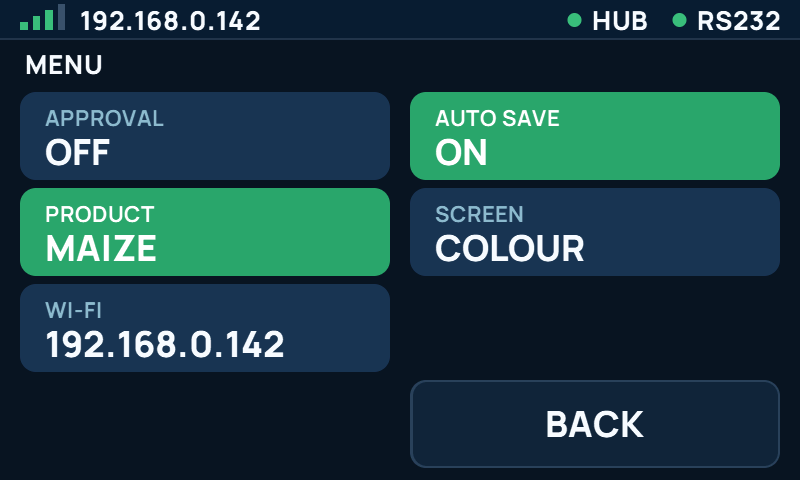
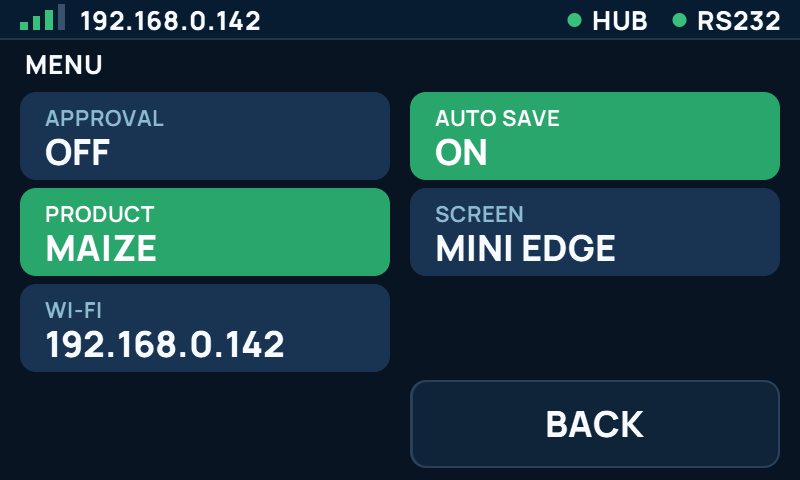
feat(wsoft): Waveshare reads RS232 on the Sensor plug; MENU > SCREEN says MINI EDGE
Rhyno (23 Nov 2026): one thing is plugged in at a time, so the pins follow
the source. The Waveshare's only free GPIO is the Sensor plug (GPIO6, per
Waveshare's wiki); RS232 is receive only there, through a MAX3232 like the
yellow board, with the same default weight pattern. The load cell (2 wires)
and relays have no free pin on this board and stay as they were.

The Full Colour look (the mini Edge, PR #70) is named MINI EDGE on the menu
tile and its toast; presets regenerated with WSOFT_UI_KEEP_FONTS=1 (only
screen 37 changed).

Claude-Session: https://claude.ai/code/session_017CMFYsz2FEFbhujMkyKidP

Changed region(s): [[0.5312, 0.4688, 0.7812, 0.5625]]

diff --git a/interface/src/project/wsoft/gen/wsoftScreen.js b/interface/src/project/wsoft/gen/wsoftScreen.js
@@ -994,7 +994,7 @@ const WsoftUi = (() => {
     }
     if (S.source === 'LOADCELL') tile('zero', 'ZERO', 'SET TO 0', LOOK_BTN);
     tile('product', 'PRODUCT', !S.products.length ? 'NONE ON THE HUB' : pr ? pr.name.toUpperCase() : 'NONE', pr ? LOOK_ON : LOOK_BTN);
-    tile('theme', 'SCREEN', S.style === STYLE_COLOUR ? 'COLOUR' : S.style === STYLE_DIAL ? 'DIAL' : S.dark ? 'DARK' : 'LIGHT', LOOK_BTN);
+    tile('theme', 'SCREEN', S.style === STYLE_COLOUR ? 'MINI EDGE' : S.style === STYLE_DIAL ? 'DIAL' : S.dark ? 'DARK' : 'LIGHT', LOOK_BTN);
     tile('wifi', 'WI-FI', up ? S.wifi.ip : 'OFF', LOOK_BTN);
     m.tile_count = m.tiles.length;
     m.pin_count = S.pin.length;

diff --git a/tools/wsoft-ui/ref.js b/tools/wsoft-ui/ref.js
@@ -992,7 +992,7 @@ const WsoftUi = (() => {
     }
     if (S.source === 'LOADCELL') tile('zero', 'ZERO', 'SET TO 0', LOOK_BTN);
     tile('product', 'PRODUCT', !S.products.length ? 'NONE ON THE HUB' : pr ? pr.name.toUpperCase() : 'NONE', pr ? LOOK_ON : LOOK_BTN);
-    tile('theme', 'SCREEN', S.style === STYLE_COLOUR ? 'COLOUR' : S.style === STYLE_DIAL ? 'DIAL' : S.dark ? 'DARK' : 'LIGHT', LOOK_BTN);
+    tile('theme', 'SCREEN', S.style === STYLE_COLOUR ? 'MINI EDGE' : S.style === STYLE_DIAL ? 'DIAL' : S.dark ? 'DARK' : 'LIGHT', LOOK_BTN);
     tile('wifi', 'WI-FI', up ? S.wifi.ip : 'OFF', LOOK_BTN);
     m.tile_count = m.tiles.length;
     m.pin_count = S.pin.length;

diff --git a/lib/wsoft_core/src/gen/wsoft_ui_presets.h b/lib/wsoft_core/src/gen/wsoft_ui_presets.h
@@ -1618,7 +1618,7 @@ inline bool wsoft_ui_preset(int n, WsoftUiModel *m) {
       m->tiles[5].id = WSOFT_UI_TILE_THEME;
       m->tiles[5].look = 0;
       WSOFT_UI_PRESET_SET(m->tiles[5].caption, "SCREEN");
-      WSOFT_UI_PRESET_SET(m->tiles[5].value, "COLOUR");
+      WSOFT_UI_PRESET_SET(m->tiles[5].value, "MINI EDGE");
       m->tiles[6].id = WSOFT_UI_TILE_WIFI;
       m->tiles[6].look = 0;
       WSOFT_UI_PRESET_SET(m->tiles[6].caption, "WI-FI");
@@ -1681,7 +1681,7 @@ inline bool wsoft_ui_preset(int n, WsoftUiModel *m) {
       m->tiles[5].id = WSOFT_UI_TILE_THEME;
       m->tiles[5].look = 0;
       WSOFT_UI_PRESET_SET(m->tiles[5].caption, "SCREEN");
-      WSOFT_UI_PRESET_SET(m->tiles[5].value, "COLOUR");
+      WSOFT_UI_PRESET_SET(m->tiles[5].value, "MINI EDGE");
       m->tiles[6].id = WSOFT_UI_TILE_WIFI;
       m->tiles[6].look = 0;
       WSOFT_UI_PRESET_SET(m->tiles[6].caption, "WI-FI");
@@ -1735,7 +1735,7 @@ inline bool wsoft_ui_preset(int n, WsoftUiModel *m) {
       m->tiles[3].id = WSOFT_UI_TILE_THEME;
       m->tiles[3].look = 0;
       WSOFT_UI_PRESET_SET(m->tiles[3].caption, "SCREEN");
-      WSOFT_UI_PRESET_SET(m->tiles[3].value, "COLOUR");
+      WSOFT_UI_PRESET_SET(m->tiles[3].value, "MINI EDGE");
       m->tiles[4].id = WSOFT_UI_TILE_WIFI;
       m->tiles[4].look = 0;
       WSOFT_UI_PRESET_SET(m->tiles[4].caption, "WI-FI");
@@ -1791,7 +1791,7 @@ inline bool wsoft_ui_preset(int n, WsoftUiModel *m) {
       m->tiles[3].id = WSOFT_UI_TILE_THEME;
       m->tiles[3].look = 0;
       WSOFT_UI_PRESET_SET(m->tiles[3].caption, "SCREEN");
-      WSOFT_UI_PRESET_SET(m->tiles[3].value, "COLOUR");
+      WSOFT_UI_PRESET_SET(m->tiles[3].value, "MINI EDGE");
       m->tiles[4].id = WSOFT_UI_TILE_WIFI;
       m->tiles[4].look = 0;
       WSOFT_UI_PRESET_SET(m->tiles[4].caption, "WI-FI");
@@ -1846,7 +1846,7 @@ inline bool wsoft_ui_preset(int n, WsoftUiModel *m) {
       m->tiles[3].id = WSOFT_UI_TILE_THEME;
       m->tiles[3].look = 0;
       WSOFT_UI_PRESET_SET(m->tiles[3].caption, "SCREEN");
-      WSOFT_UI_PRESET_SET(m->tiles[3].value, "COLOUR");
+      WSOFT_UI_PRESET_SET(m->tiles[3].value, "MINI EDGE");
       m->tiles[4].id = WSOFT_UI_TILE_WIFI;
       m->tiles[4].look = 0;
       WSOFT_UI_PRESET_SET(m->tiles[4].caption, "WI-FI");
@@ -1899,7 +1899,7 @@ inline bool wsoft_ui_preset(int n, WsoftUiModel *m) {
       m->tiles[3].id = WSOFT_UI_TILE_THEME;
       m->tiles[3].look = 0;
       WSOFT_UI_PRESET_SET(m->tiles[3].caption, "SCREEN");
-      WSOFT_UI_PRESET_SET(m->tiles[3].value, "COLOUR");
+      WSOFT_UI_PRESET_SET(m->tiles[3].value, "MINI EDGE");
       m->tiles[4].id = WSOFT_UI_TILE_WIFI;
       m->tiles[4].look = 0;
       WSOFT_UI_PRESET_SET(m->tiles[4].caption, "WI-FI");
@@ -1949,7 +1949,7 @@ inline bool wsoft_ui_preset(int n, WsoftUiModel *m) {
       m->tiles[3].id = WSOFT_UI_TILE_THEME;
       m->tiles[3].look = 0;
       WSOFT_UI_PRESET_SET(m->tiles[3].caption, "SCREEN");
-      WSOFT_UI_PRESET_SET(m->tiles[3].value, "COLOUR");
+      WSOFT_UI_PRESET_SET(m->tiles[3].value, "MINI EDGE");
       m->tiles[4].id = WSOFT_UI_TILE_WIFI;
       m->tiles[4].look = 0;
       WSOFT_UI_PRESET_SET(m->tiles[4].caption, "WI-FI");
@@ -2016,7 +2016,7 @@ inline bool wsoft_ui_preset(int n, WsoftUiModel *m) {
       m->tiles[5].id = WSOFT_UI_TILE_THEME;
       m->tiles[5].look = 0;
       WSOFT_UI_PRESET_SET(m->tiles[5].caption, "SCREEN");
-      WSOFT_UI_PRESET_SET(m->tiles[5].value, "COLOUR");
+      WSOFT_UI_PRESET_SET(m->tiles[5].value, "MINI EDGE");
       m->tiles[6].id = WSOFT_UI_TILE_WIFI;
       m->tiles[6].look = 0;
       WSOFT_UI_PRESET_SET(m->tiles[6].caption, "WI-FI");
@@ -2070,7 +2070,7 @@ inline bool wsoft_ui_preset(int n, WsoftUiModel *m) {
       m->tiles[3].id = WSOFT_UI_TILE_THEME;
       m->tiles[3].look = 0;
       WSOFT_UI_PRESET_SET(m->tiles[3].caption, "SCREEN");
-      WSOFT_UI_PRESET_SET(m->tiles[3].value, "COLOUR");
+      WSOFT_UI_PRESET_SET(m->tiles[3].value, "MINI EDGE");
       m->tiles[4].id = WSOFT_UI_TILE_WIFI;
       m->tiles[4].look = 0;
       WSOFT_UI_PRESET_SET(m->tiles[4].caption, "WI-FI");
@@ -2126,7 +2126,7 @@ inline bool wsoft_ui_preset(int n, WsoftUiModel *m) {
       m->tiles[3].id = WSOFT_UI_TILE_THEME;
       m->tiles[3].look = 0;
       WSOFT_UI_PRESET_SET(m->tiles[3].caption, "SCREEN");
-      WSOFT_UI_PRESET_SET(m->tiles[3].value, "COLOUR");
+      WSOFT_UI_PRESET_SET(m->tiles[3].value, "MINI EDGE");
       m->tiles[4].id = WSOFT_UI_TILE_WIFI;
       m->tiles[4].look = 0;
       WSOFT_UI_PRESET_SET(m->tiles[4].caption, "WI-FI");
@@ -2691,7 +2691,7 @@ inline bool wsoft_ui_preset(int n, WsoftUiModel *m) {
       m->tiles[3].id = WSOFT_UI_TILE_THEME;
       m->tiles[3].look = 0;
       WSOFT_UI_PRESET_SET(m->tiles[3].caption, "SCREEN");
-      WSOFT_UI_PRESET_SET(m->tiles[3].value, "COLOUR");
+      WSOFT_UI_PRESET_SET(m->tiles[3].value, "MINI EDGE");
       m->tiles[4].id = WSOFT_UI_TILE_WIFI;
       m->tiles[4].look = 0;
       WSOFT_UI_PRESET_SET(m->tiles[4].caption, "WI-FI");
@@ -3011,7 +3011,7 @@ inline bool wsoft_ui_preset(int n, WsoftUiModel *m) {
       m->tiles[3].id = WSOFT_UI_TILE_THEME;
       m->tiles[3].look = 0;
       WSOFT_UI_PRESET_SET(m->tiles[3].caption, "SCREEN");
-      WSOFT_UI_PRESET_SET(m->tiles[3].value, "COLOUR");
+      WSOFT_UI_PRESET_SET(m->tiles[3].value, "MINI EDGE");
       m->tiles[4].id = WSOFT_UI_TILE_WIFI;
       m->tiles[4].look = 0;
       WSOFT_UI_PRESET_SET(m->tiles[4].caption, "WI-FI");

diff --git a/test/test_wsoft_ui/golden.h b/test/test_wsoft_ui/golden.h
@@ -4,5 +4,5 @@
 
 #include <stdint.h>
 
-static const uint32_t GOLDEN_1X[] = {0x2EED3E39, 0xCB8630B6, 0x13C357CE, 0x1EF07A5D, 0x0CD5396A, 0xB3EDC79C, 0x4042B08A, 0x0169D3E2, 0x91E90C57, 0xFDF178CC, 0x9669DC47, 0x26D96EE3, 0x205B387A, 0xC8444119, 0x2D1F0669, 0x6BB1E900, 0x1E099634, 0xA7C846C0, 0x29F2D94F, 0x217565AE, 0xFFB61478, 0xCE17ED72, 0x29601460, 0x91CC4766, 0xC81A18F3, 0x2245DA02, 0xA5CD9DD1, 0x590DC4BD, 0x482F14CD, 0x17B44FBF, 0x26E15A17, 0x789F8E65, 0xF9E78D34, 0x3DB6C743, 0x7B7A81E0, 0x2E51E492, 0xFFD67E3D, 0xBD04EBC5, 0x8A6FF48C, 0x97CC09C8, 0x55A34D7F, 0x2A4D5EA5, 0x3817A669, 0xFBD72C38, 0xD09FC023, 0xCDD0EA2C, 0x06F4267C, 0x830E4B13, 0xA081F4C9, 0xCA67513E, 0x155F0C53, 0xB209D8DE, 0x9D2A6727, 0xE742CE00, 0x474DA559, 0xCD87CF7F};
-static const uint32_t GOLDEN_2X[] = {0x2CB597FA, 0xEE8355B3, 0x3DF3B986, 0xBB07AA83, 0x561022F2, 0x8AF27F6C, 0x087B2AE7, 0x6FA89258, 0x856FCB6E, 0x328374DB, 0x0C066F48, 0x8241D678, 0xCC0B4B47, 0x1A5164EE, 0x7C95CEA0, 0x3A34EC60, 0x63F98DCA, 0x6F641277, 0x9B7D4A8C, 0x3944787F, 0x54E248B5, 0x40334849, 0x7E49473E, 0x69F2874B, 0x1A43A21B, 0xA003525E, 0xAD3C0C0B, 0x180C86C7, 0xB6816025, 0xFF1C5AD6, 0x87A15B53, 0x5CD1728A, 0x47C5E8A1, 0x4617E37C, 0x513400BD, 0xB7D35B80, 0xA3958AA5, 0x9E6B1D74, 0x2357EC97, 0x31DC200B, 0x091BCA9E, 0x1912BD4B, 0x5AFF1D91, 0x605D8B1D, 0x0C1DE447, 0xCD0E739D, 0x4114731D, 0xF0D4FCE6, 0xEF58C3AE, 0x4D9B6EF7, 0x07E42EB8, 0x3B1B2A93, 0x693C7C78, 0x5439B6CA, 0x78B24497, 0xFFE3EF41};
+static const uint32_t GOLDEN_1X[] = {0x2EED3E39, 0xCB8630B6, 0x13C357CE, 0x1EF07A5D, 0x0CD5396A, 0xB3EDC79C, 0x4042B08A, 0x0169D3E2, 0x91E90C57, 0xFDF178CC, 0x9669DC47, 0x26D96EE3, 0x205B387A, 0xC8444119, 0x2D1F0669, 0x6BB1E900, 0x1E099634, 0xA7C846C0, 0x29F2D94F, 0x217565AE, 0xFFB61478, 0xCE17ED72, 0x29601460, 0x91CC4766, 0xC81A18F3, 0x2245DA02, 0xA5CD9DD1, 0x590DC4BD, 0x482F14CD, 0x17B44FBF, 0x26E15A17, 0x789F8E65, 0xF9E78D34, 0x3DB6C743, 0x7B7A81E0, 0x2E51E492, 0xFFD67E3D, 0xD85BEC9D, 0x8A6FF48C, 0x97CC09C8, 0x55A34D7F, 0x2A4D5EA5, 0x3817A669, 0xFBD72C38, 0xD09FC023, 0xCDD0EA2C, 0x06F4267C, 0x830E4B13, 0xA081F4C9, 0xCA67513E, 0x155F0C53, 0xB209D8DE, 0x9D2A6727, 0xE742CE00, 0x474DA559, 0xCD87CF7F};
+static const uint32_t GOLDEN_2X[] = {0x2CB597FA, 0xEE8355B3, 0x3DF3B986, 0xBB07AA83, 0x561022F2, 0x8AF27F6C, 0x087B2AE7, 0x6FA89258, 0x856FCB6E, 0x328374DB, 0x0C066F48, 0x8241D678, 0xCC0B4B47, 0x1A5164EE, 0x7C95CEA0, 0x3A34EC60, 0x63F98DCA, 0x6F641277, 0x9B7D4A8C, 0x3944787F, 0x54E248B5, 0x40334849, 0x7E49473E, 0x69F2874B, 0x1A43A21B, 0xA003525E, 0xAD3C0C0B, 0x180C86C7, 0xB6816025, 0xFF1C5AD6, 0x87A15B53, 0x5CD1728A, 0x47C5E8A1, 0x4617E37C, 0x513400BD, 0xB7D35B80, 0xA3958AA5, 0x07C7AD43, 0x2357EC97, 0x31DC200B, 0x091BCA9E, 0x1912BD4B, 0x5AFF1D91, 0x605D8B1D, 0x0C1DE447, 0xCD0E739D, 0x4114731D, 0xF0D4FCE6, 0xEF58C3AE, 0x4D9B6EF7, 0x07E42EB8, 0x3B1B2A93, 0x693C7C78, 0x5439B6CA, 0x78B24497, 0xFFE3EF41};

diff --git a/lib/wsoft_core/src/wsoft_ui_model.cpp b/lib/wsoft_core/src/wsoft_ui_model.cpp
@@ -264,7 +264,7 @@ static void menu(const WsoftUiInput &in, WsoftUiModel *m) {
     tile(m, WSOFT_UI_TILE_PRODUCT, "PRODUCT", m->product, true);
   }
   tile(m, WSOFT_UI_TILE_THEME, "SCREEN",
-       in.style == WSOFT_UI_STYLE_COLOUR ? "COLOUR" : in.style == WSOFT_UI_STYLE_DIAL ? "DIAL" : in.dark ? "DARK" : "LIGHT", false);
+       in.style == WSOFT_UI_STYLE_COLOUR ? "MINI EDGE" : in.style == WSOFT_UI_STYLE_DIAL ? "DIAL" : in.dark ? "DARK" : "LIGHT", false);
   // The menu holds 7 tiles. When ZERO and PRESET TARE are both there, WI-FI gives way: a tap
   // on the Wi-Fi bars at the top of the screen opens the same page.
   tile(m, WSOFT_UI_TILE_WIFI, "WI-FI", in.wifi_up ? in.ip : "OFF", false);

diff --git a/src/examples/serial/SerialState.h b/src/examples/serial/SerialState.h
@@ -12,7 +12,8 @@
 // mode) ships with a generic pattern: the first number in the line, with optional sign
 // and decimals, so W113 and other indicators work without setup. POSIX ERE syntax.
 #ifndef SERIAL_DEFAULT_REGEX
-#if (defined(WSOFT_BOARD_CYD) && WSOFT_BOARD_CYD) || (defined(WSOFT_BOARD_HEADLESS) && WSOFT_BOARD_HEADLESS)
+#if (defined(WSOFT_BOARD_CYD) && WSOFT_BOARD_CYD) || (defined(WSOFT_BOARD_HEADLESS) && WSOFT_BOARD_HEADLESS) || \
+    defined(BOARD_WAVESHARE_ESP32_S3_TOUCH_LCD_4_3)
 #define SERIAL_DEFAULT_REGEX "([-+]?[ ]*[0-9]+([.,][0-9]+)?)"
 #else
 #define SERIAL_DEFAULT_REGEX ""

diff --git a/lib/wsoft_esp/src/wsoft_ui.cpp b/lib/wsoft_esp/src/wsoft_ui.cpp
@@ -670,7 +670,7 @@ static void menu_tap(int tile) {
         dark = true;
       }
       theme_save();
-      say(style == WSOFT_UI_STYLE_COLOUR ? "FULL COLOUR" : style == WSOFT_UI_STYLE_DIAL ? "DIAL" : dark ? "DARK MODE" : "LIGHT MODE");
+      say(style == WSOFT_UI_STYLE_COLOUR ? "MINI EDGE" : style == WSOFT_UI_STYLE_DIAL ? "DIAL" : dark ? "DARK MODE" : "LIGHT MODE");
       break;
     case WSOFT_UI_TILE_WIFI:
       message[0] = 0;

diff --git a/test/test_wsoft_ui/test_main.cpp b/test/test_wsoft_ui/test_main.cpp
@@ -817,7 +817,7 @@ void test_the_style_of_the_live_page() {
   in.style = WSOFT_UI_STYLE_COLOUR;
   wsoft_ui_model(in, &b);
   TEST_ASSERT_EQUAL(WSOFT_UI_TILE_THEME, b.tiles[3].id);
-  TEST_ASSERT_EQUAL_STRING("COLOUR", b.tiles[3].value);
+  TEST_ASSERT_EQUAL_STRING("MINI EDGE", b.tiles[3].value);
   in.style = WSOFT_UI_STYLE_DIAL;
   wsoft_ui_model(in, &b);
   TEST_ASSERT_EQUAL_STRING("DIAL", b.tiles[3].value);

diff --git a/docs/WSOFT-WAVESHARE43.md b/docs/WSOFT-WAVESHARE43.md
@@ -18,7 +18,7 @@ W-Soft runs on three PlatformIO envs. Every other env in `platformio.ini` is a d
 
 | Env | Board | Scale input |
 |---|---|---|
-| `wsoft_waveshare43` | Waveshare ESP32-S3 4.3 inch touch | RS485 junction box only: every other GPIO drives the panel; the only spare plug is the I2C socket (GPIO8/9, shared with touch) |
+| `wsoft_waveshare43` | Waveshare ESP32-S3 4.3 inch touch | RS485 junction box on the RS485 plug (GPIO15/16), or an RS232 scale on the Sensor plug (GPIO6, receive only, through a MAX3232; 23 Nov 2026). One source at a time, picked in Settings. Every other GPIO drives the panel; the I2C plug (GPIO8/9) carries touch, so no free pins for an HX711 or relays |
 | `wsoft_cyd28` | Yellow board (CYD 2.8 inch) | RS485 junction box, RS232 scale or load cell (HX711 on CN1) |
 | `wsoft_s3_headless` | ESP32-S3 dev board, no screen | RS485 junction box, RS232 scale or load cell (HX711 DT GPIO1, SCK GPIO2) |
 

diff --git a/CHANGELOG.md b/CHANGELOG.md
@@ -8,6 +8,11 @@ and this project adheres to [Semantic Versioning](https://semver.org/spec/v2.0.0
 ## [Unreleased]
 
 ### Changed
+- **W-Soft: the Waveshare can read an RS232 scale** (Rhyno, 23 Nov 2026). One thing is plugged in at
+  a time, so the pins follow the source: RS485 on the RS485 plug, RS232 on the Sensor plug (GPIO6,
+  receive only, through a MAX3232 like the yellow board). RS232 is no longer greyed on the Waveshare.
+- **W-Soft: MENU > SCREEN says MINI EDGE** for the Full Colour look (the mini Edge, PR #70), so it
+  is easy to find: DARK, LIGHT, MINI EDGE, DIAL. Every board.
 - **W-Soft: one RS485 Scale setup, ZERO, stable and auto zero that work** (Rhyno, 23 Nov 2026).
   The Scale setup tab has one form for the RS485 card: unit, decimal places, e, stable range and
   time, auto zero range and time, Filter 1 and Filter 2. Save writes each value where it lives and
